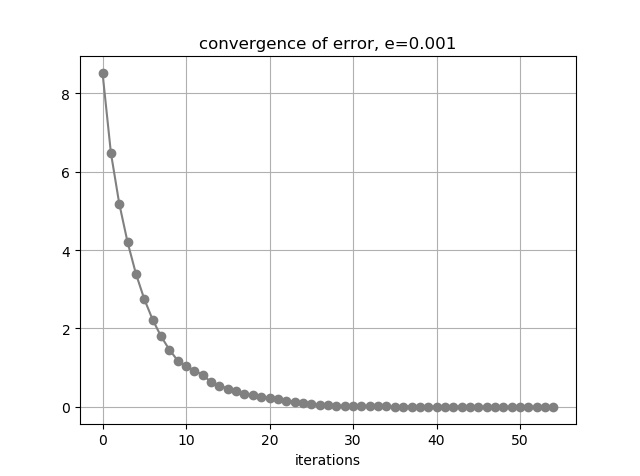
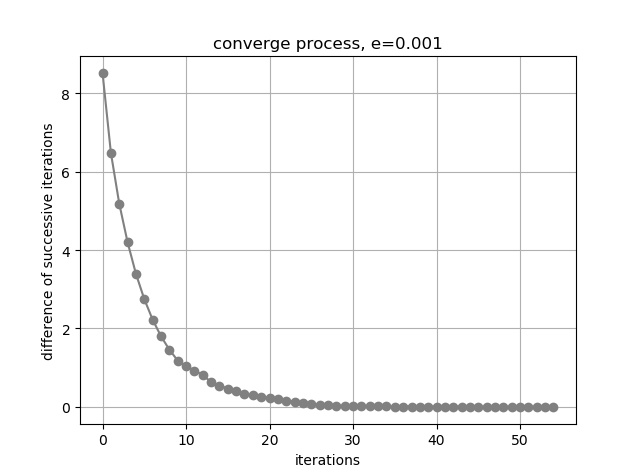
update

Changed region(s): [[0.3125, 0.0588, 0.7188, 0.1176], [0.0625, 0.2647, 0.0938, 0.7647]]

diff --git a/Stochastic Shortest Path/value_iteration.py b/Stochastic Shortest Path/value_iteration.py
@@ -21,9 +21,8 @@ class Value_iteration:
         self.gamma = 0.9                                       # discount factor
         self.obs = env.obs_map()                               # position of obstacles
         self.lose = env.lose_map()                             # position of lose states
-        self.name1 = "value_iteration, e=" + str(self.e) \
-                     + ", gamma=" + str(self.gamma)
-        self.name2 = "convergence of error, e=" + str(self.e)
+        self.name1 = "value_iteration, gamma=" + str(self.gamma)
+        self.name2 = "converge process, e=" + str(self.e)
 
 
     def iteration(self):
@@ -114,6 +113,7 @@ class Value_iteration:
         plt.plot(diff, color='#808080', marker='o')
         plt.title(self.name2, fontdict=None)
         plt.xlabel('iterations')
+        plt.ylabel('difference of successive iterations')
         plt.grid('on')
         plt.show()
 
